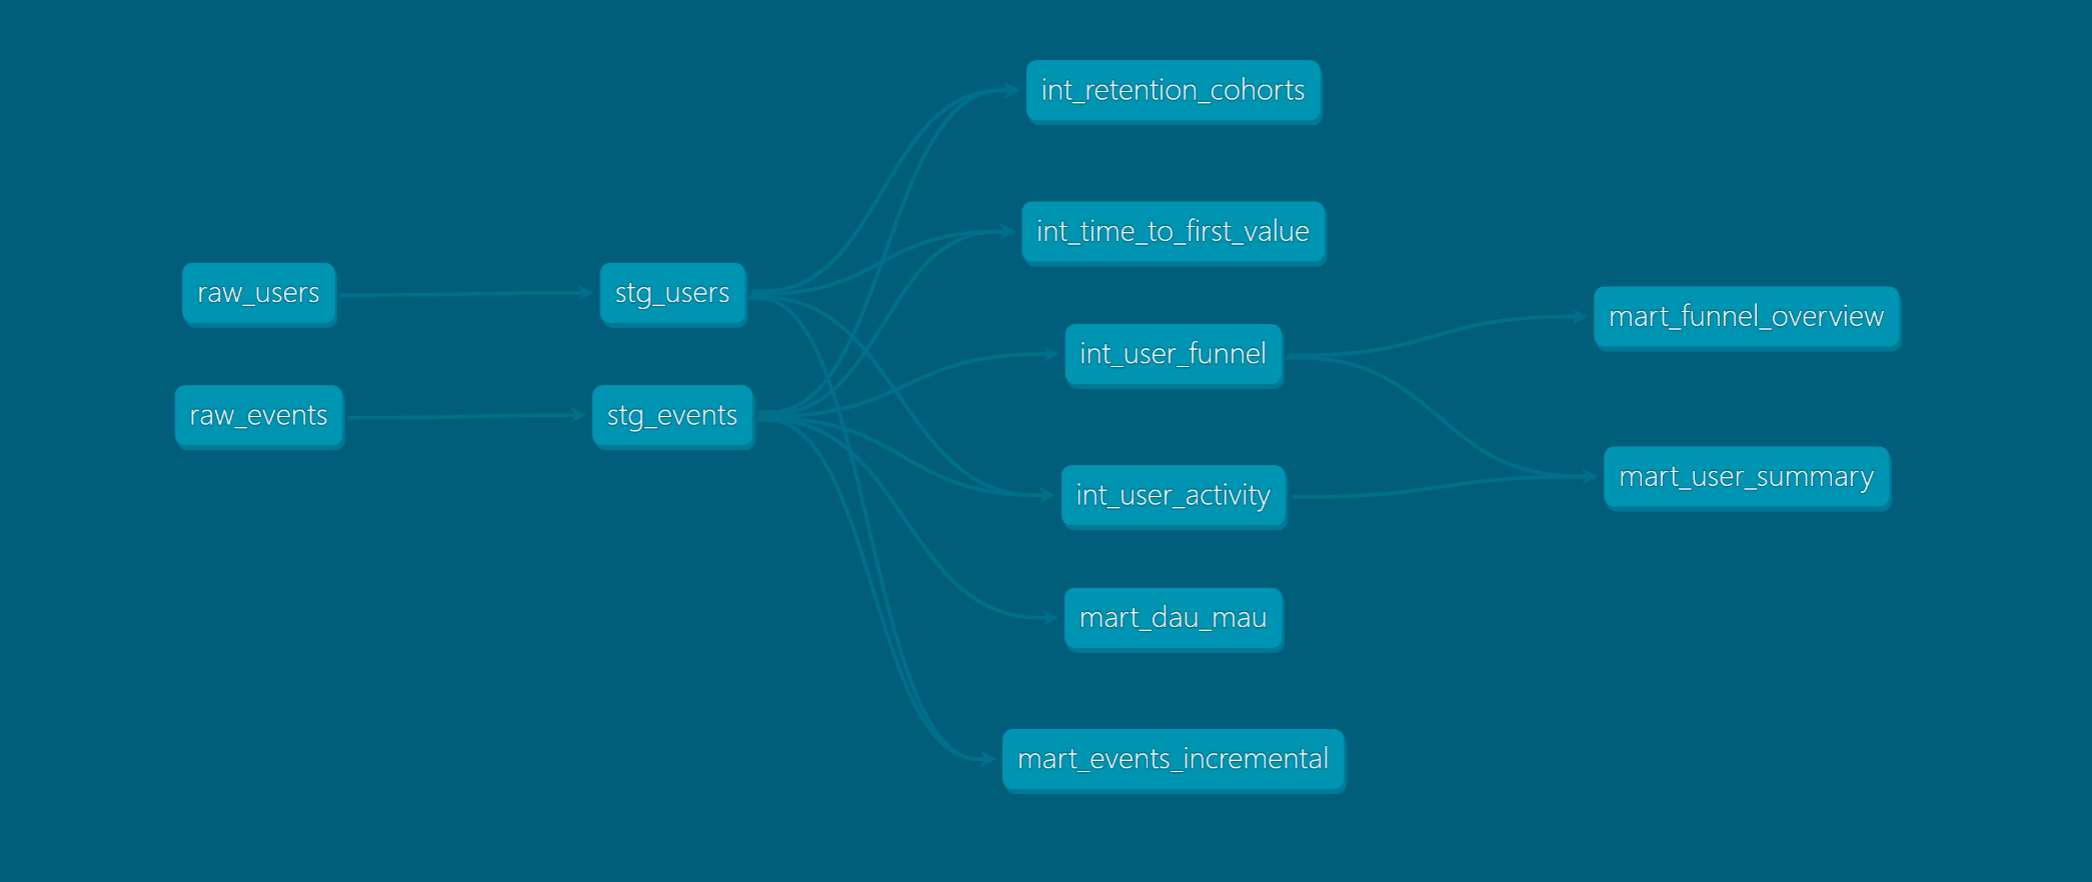
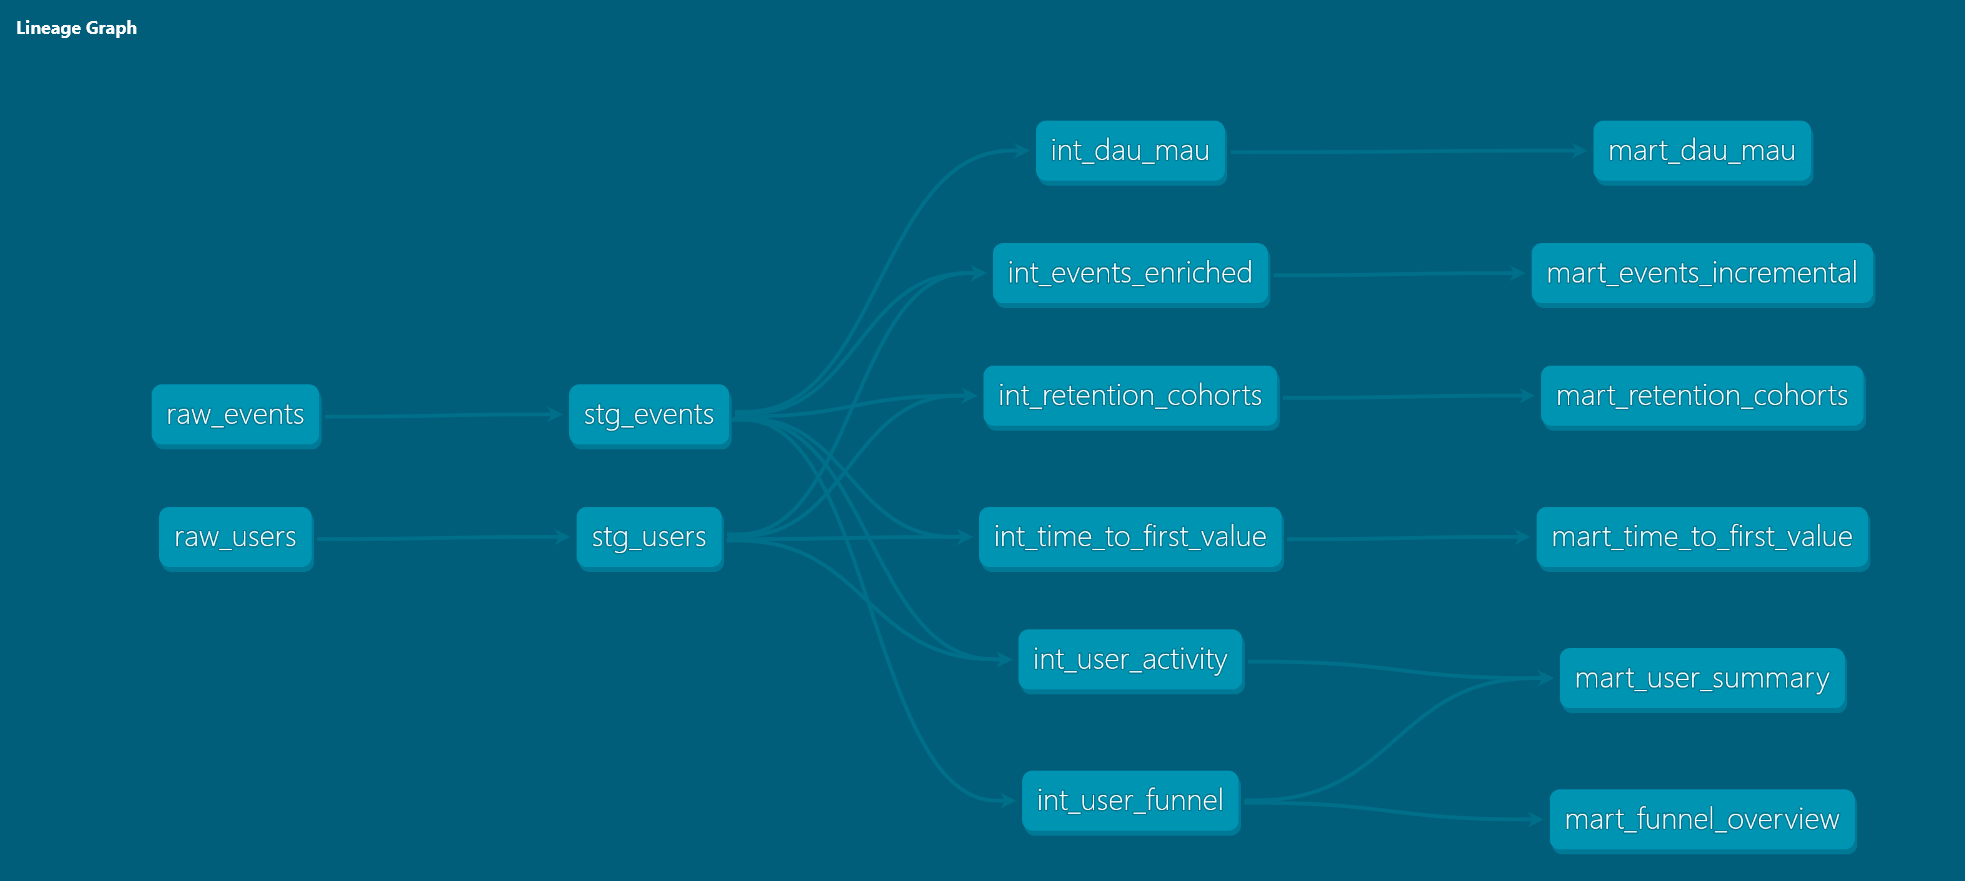
Update README with 45 tests and full schema documentation

diff --git a/README.md b/README.md
@@ -1,4 +1,4 @@
-# Canva Analytics — dbt Engineering Project
+# Canva Analytics - dbt Engineering Project
 
 An analytics engineering project simulating a SaaS product analytics pipeline,
 built with dbt and DuckDB. Inspired by the data challenges faced by product 
@@ -15,39 +15,50 @@ raw event data → cleaned staging models → business logic → analytics-ready
 
 ## Tech Stack
 
-- **dbt-core** 1.11 — data transformation and modelling
-- **DuckDB** — local analytical database
-- **Python** — synthetic data generation
+- **dbt-core** 1.11 - data transformation and modelling
+- **DuckDB** - local analytical database
+- **Python** - synthetic data generation
 
 ## Project Structure
 
 models/
 
-├── staging/          # Raw data cleaning and standardization
+├── staging/              # Raw data cleaning and standardization
 
-│   ├── stg_users     # 1,000 users with plan and country data
+│   ├── stg_users         # 1,000 users with plan and country data
 
-│   └── stg_events    # 6,967 user events (designs, exports, invites)
+│   └── stg_events        # 6,967 user events across 7 event types
 
-├── intermediate/     # Business logic layer
+├── intermediate/         # Business logic layer
 
-│   ├── int_user_activity         # Per-user event aggregations
+│   ├── int_user_activity        # Per-user event aggregations
 
-│   ├── int_user_funnel           # Funnel stage classification
+│   ├── int_user_funnel          # Funnel stage classification
 
-│   ├── int_retention_cohorts     # Monthly retention cohort analysis
+│   ├── int_retention_cohorts    # Monthly retention cohort analysis
 
-│   └── int_time_to_first_value   # Days from signup to first design
+│   ├── int_time_to_first_value  # Days from signup to first design
 
-└── marts/            # Analytics-ready tables for stakeholders
+│   ├── int_events_enriched      # Events joined with user attributes
 
-├── mart_user_summary         # Full user profile with engagement tier
+│   └── int_dau_mau              # Daily and monthly active user counts
 
-├── mart_funnel_overview      # Funnel conversion rates
+└── marts/                # Analytics-ready tables for stakeholders
 
-├── mart_dau_mau              # Daily and monthly active users
+├── mart_user_summary          # Full user profile with engagement tier
 
-└── mart_events_incremental   # Incremental event processing
+├── mart_funnel_overview       # Funnel conversion rates
+
+├── mart_retention_cohorts     # Monthly retention rates by cohort
+
+├── mart_time_to_first_value   # Activation segments by user
+
+├── mart_dau_mau               # DAU/MAU ratio over time
+
+└── mart_events_incremental    # Incremental event processing (optimized)
+macros/
+
+└── classify_engagement.sql   # Reusable engagement tier classification
 
 ## Key Metrics Modelled
 
@@ -59,10 +70,20 @@ models/
 
 ## Data Quality
 
-13 automated tests across all staging models:
+45 automated tests across all model layers:
+
+**Staging**
 - `unique` and `not_null` on all primary keys
 - `accepted_values` on plan types and event types
 - `relationships` integrity between events and users
+
+**Intermediate**
+- `unique` and `not_null` on primary keys
+- `accepted_values` on funnel stages and activation segments
+
+**Marts**
+- `unique` and `not_null` on all primary keys
+- `accepted_values` on engagement tiers and conversion rates
 
 ## How to Run
 